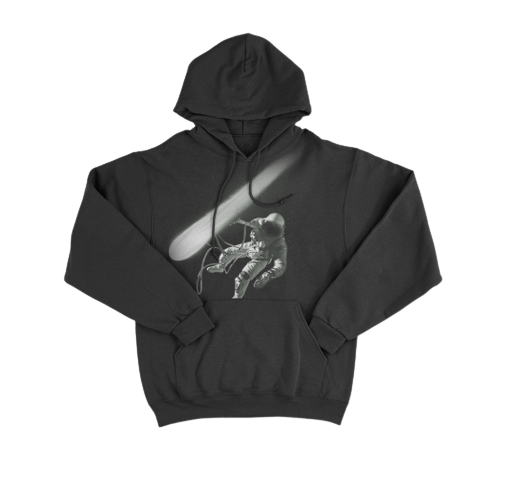
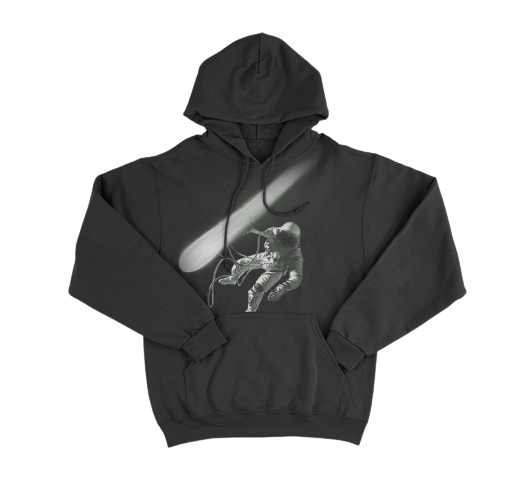
Hoodie changes

diff --git a/public/Tops.html b/public/Tops.html
@@ -62,7 +62,7 @@
 
             <!--AstronautHoodie-->
             <div id="card">
-                <a href="ProductPage.html?id=3"><img src="images/AstronautHoodie.png" alt="Astronaut Hoodie" style="width:53.5%;"></a>
+                <a href="ProductPage.html?id=3"><img src="images/AstronautHoodie.png" alt="Astronaut Hoodie" style="width:54%;"></a>
                 <h4>Astronaut Hoodie</h4>
                 <p id="price">59.99€</p>
                 <p>Jet black slightly oversized fit hoodie</p>
